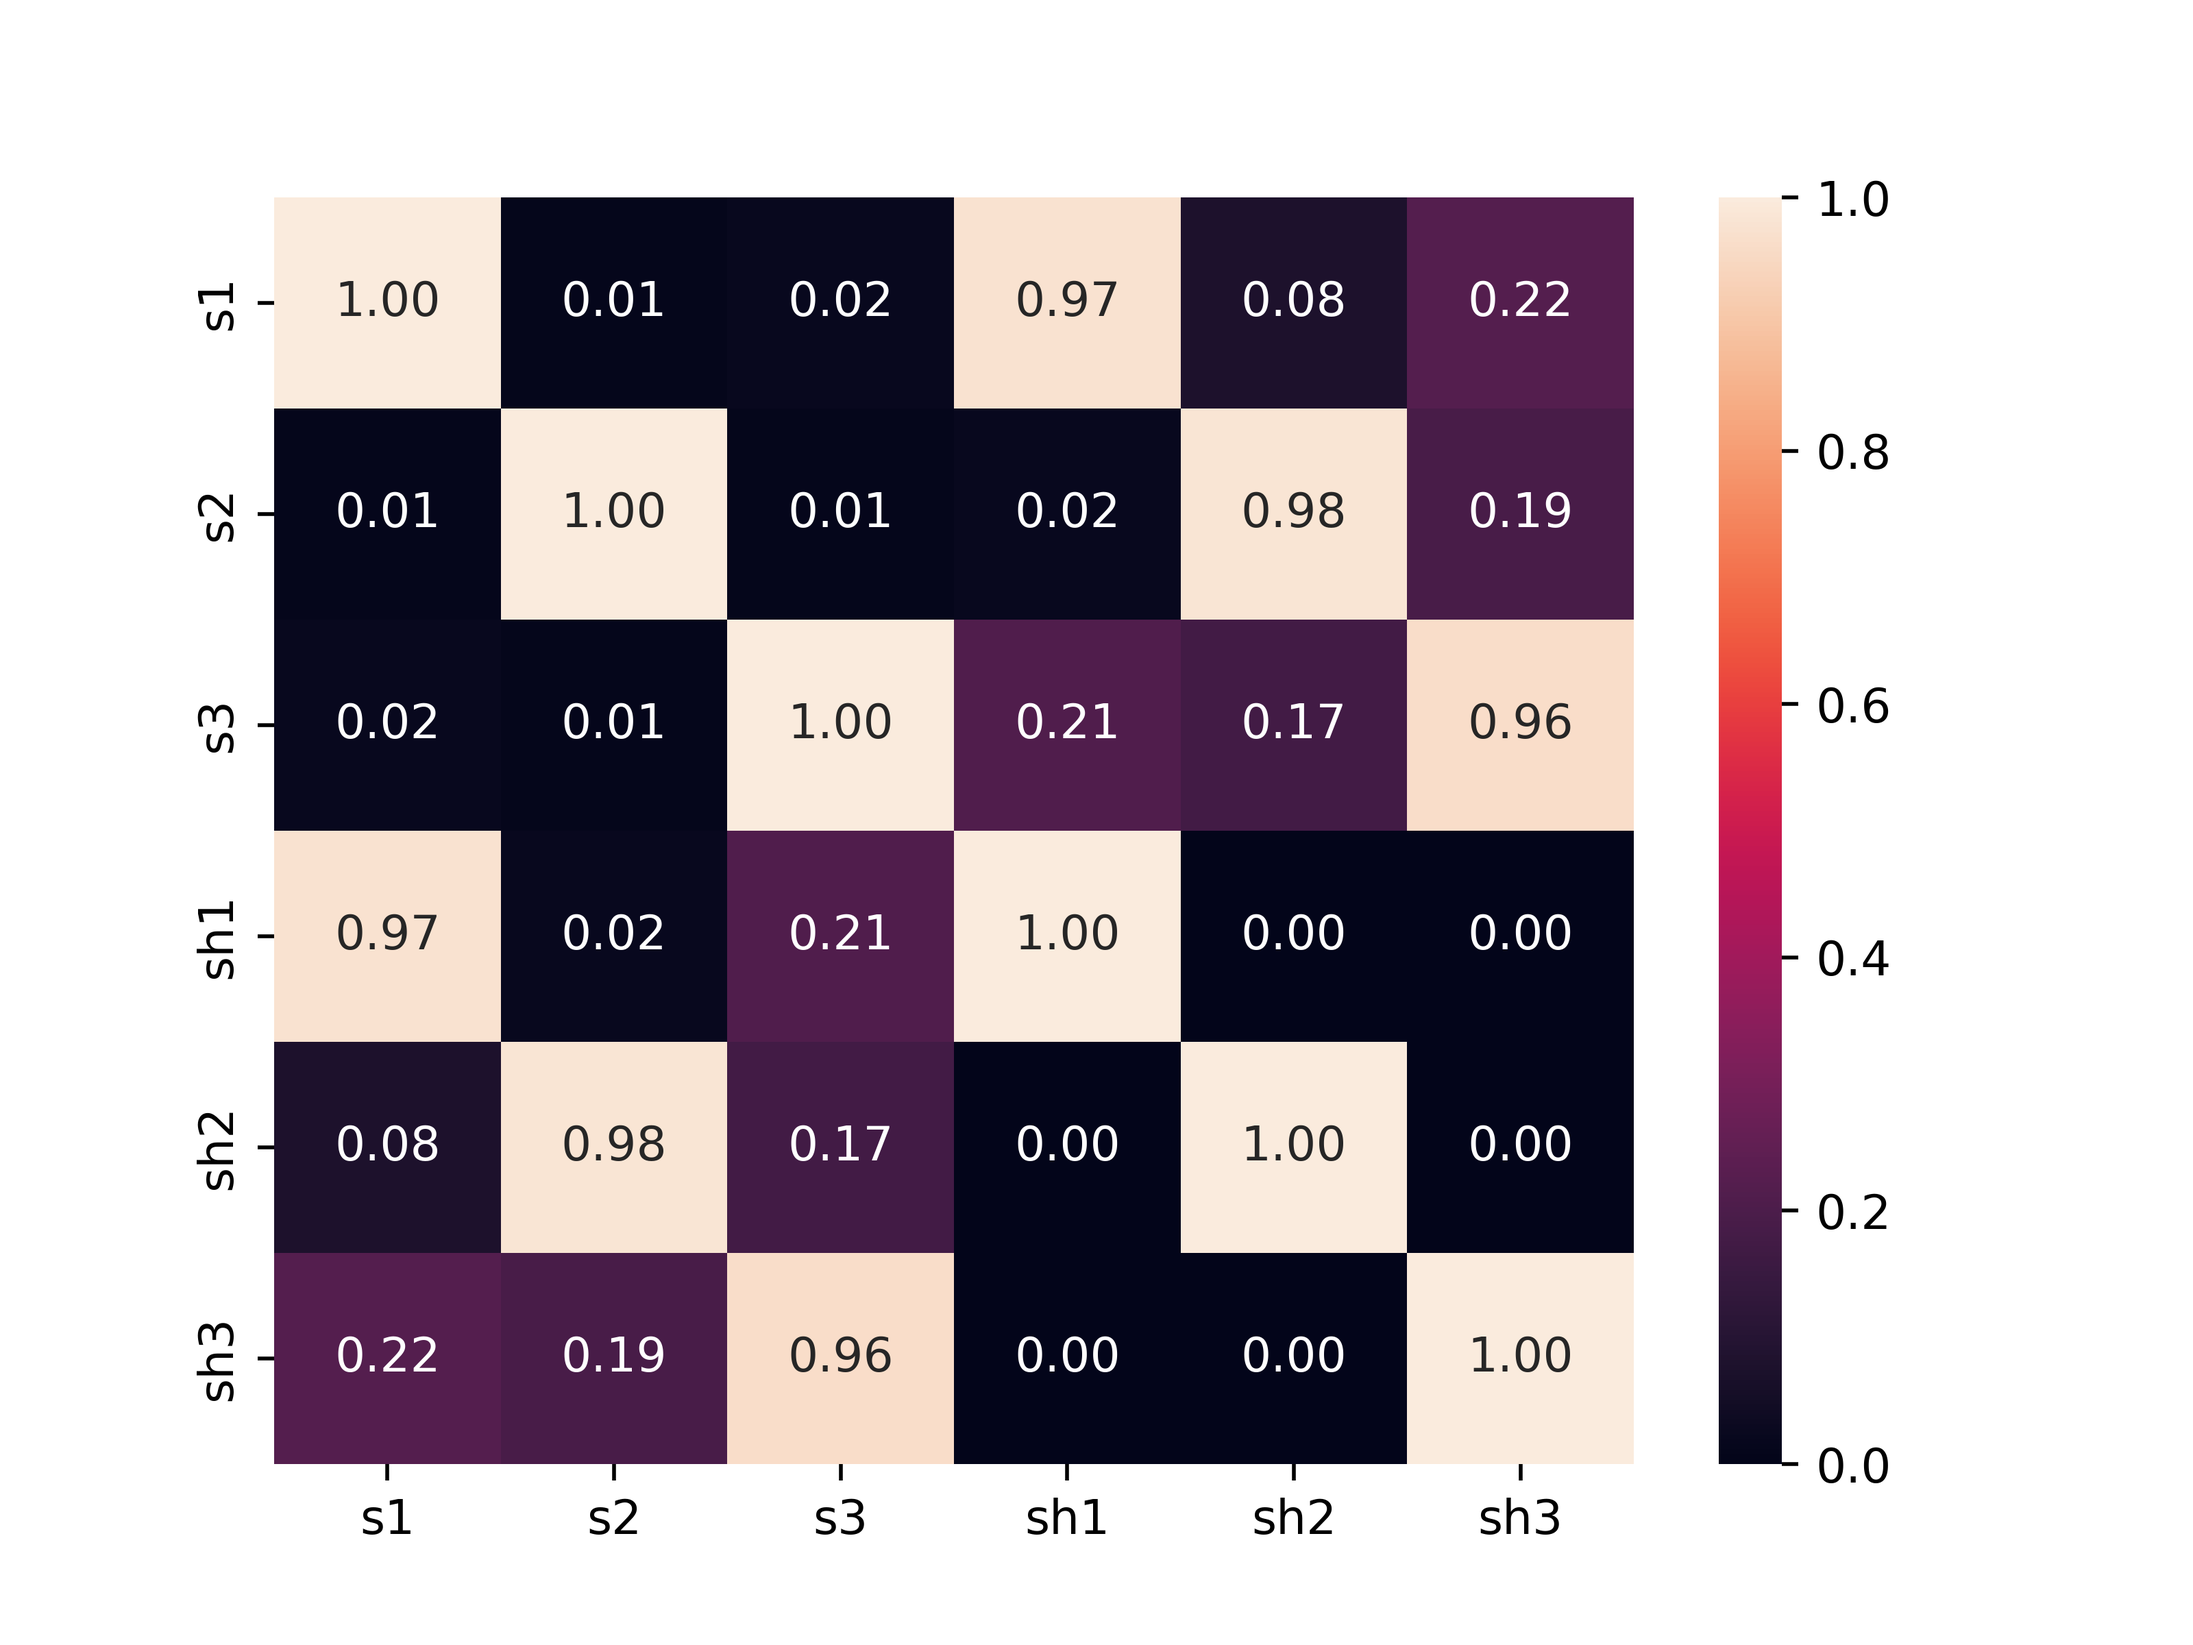
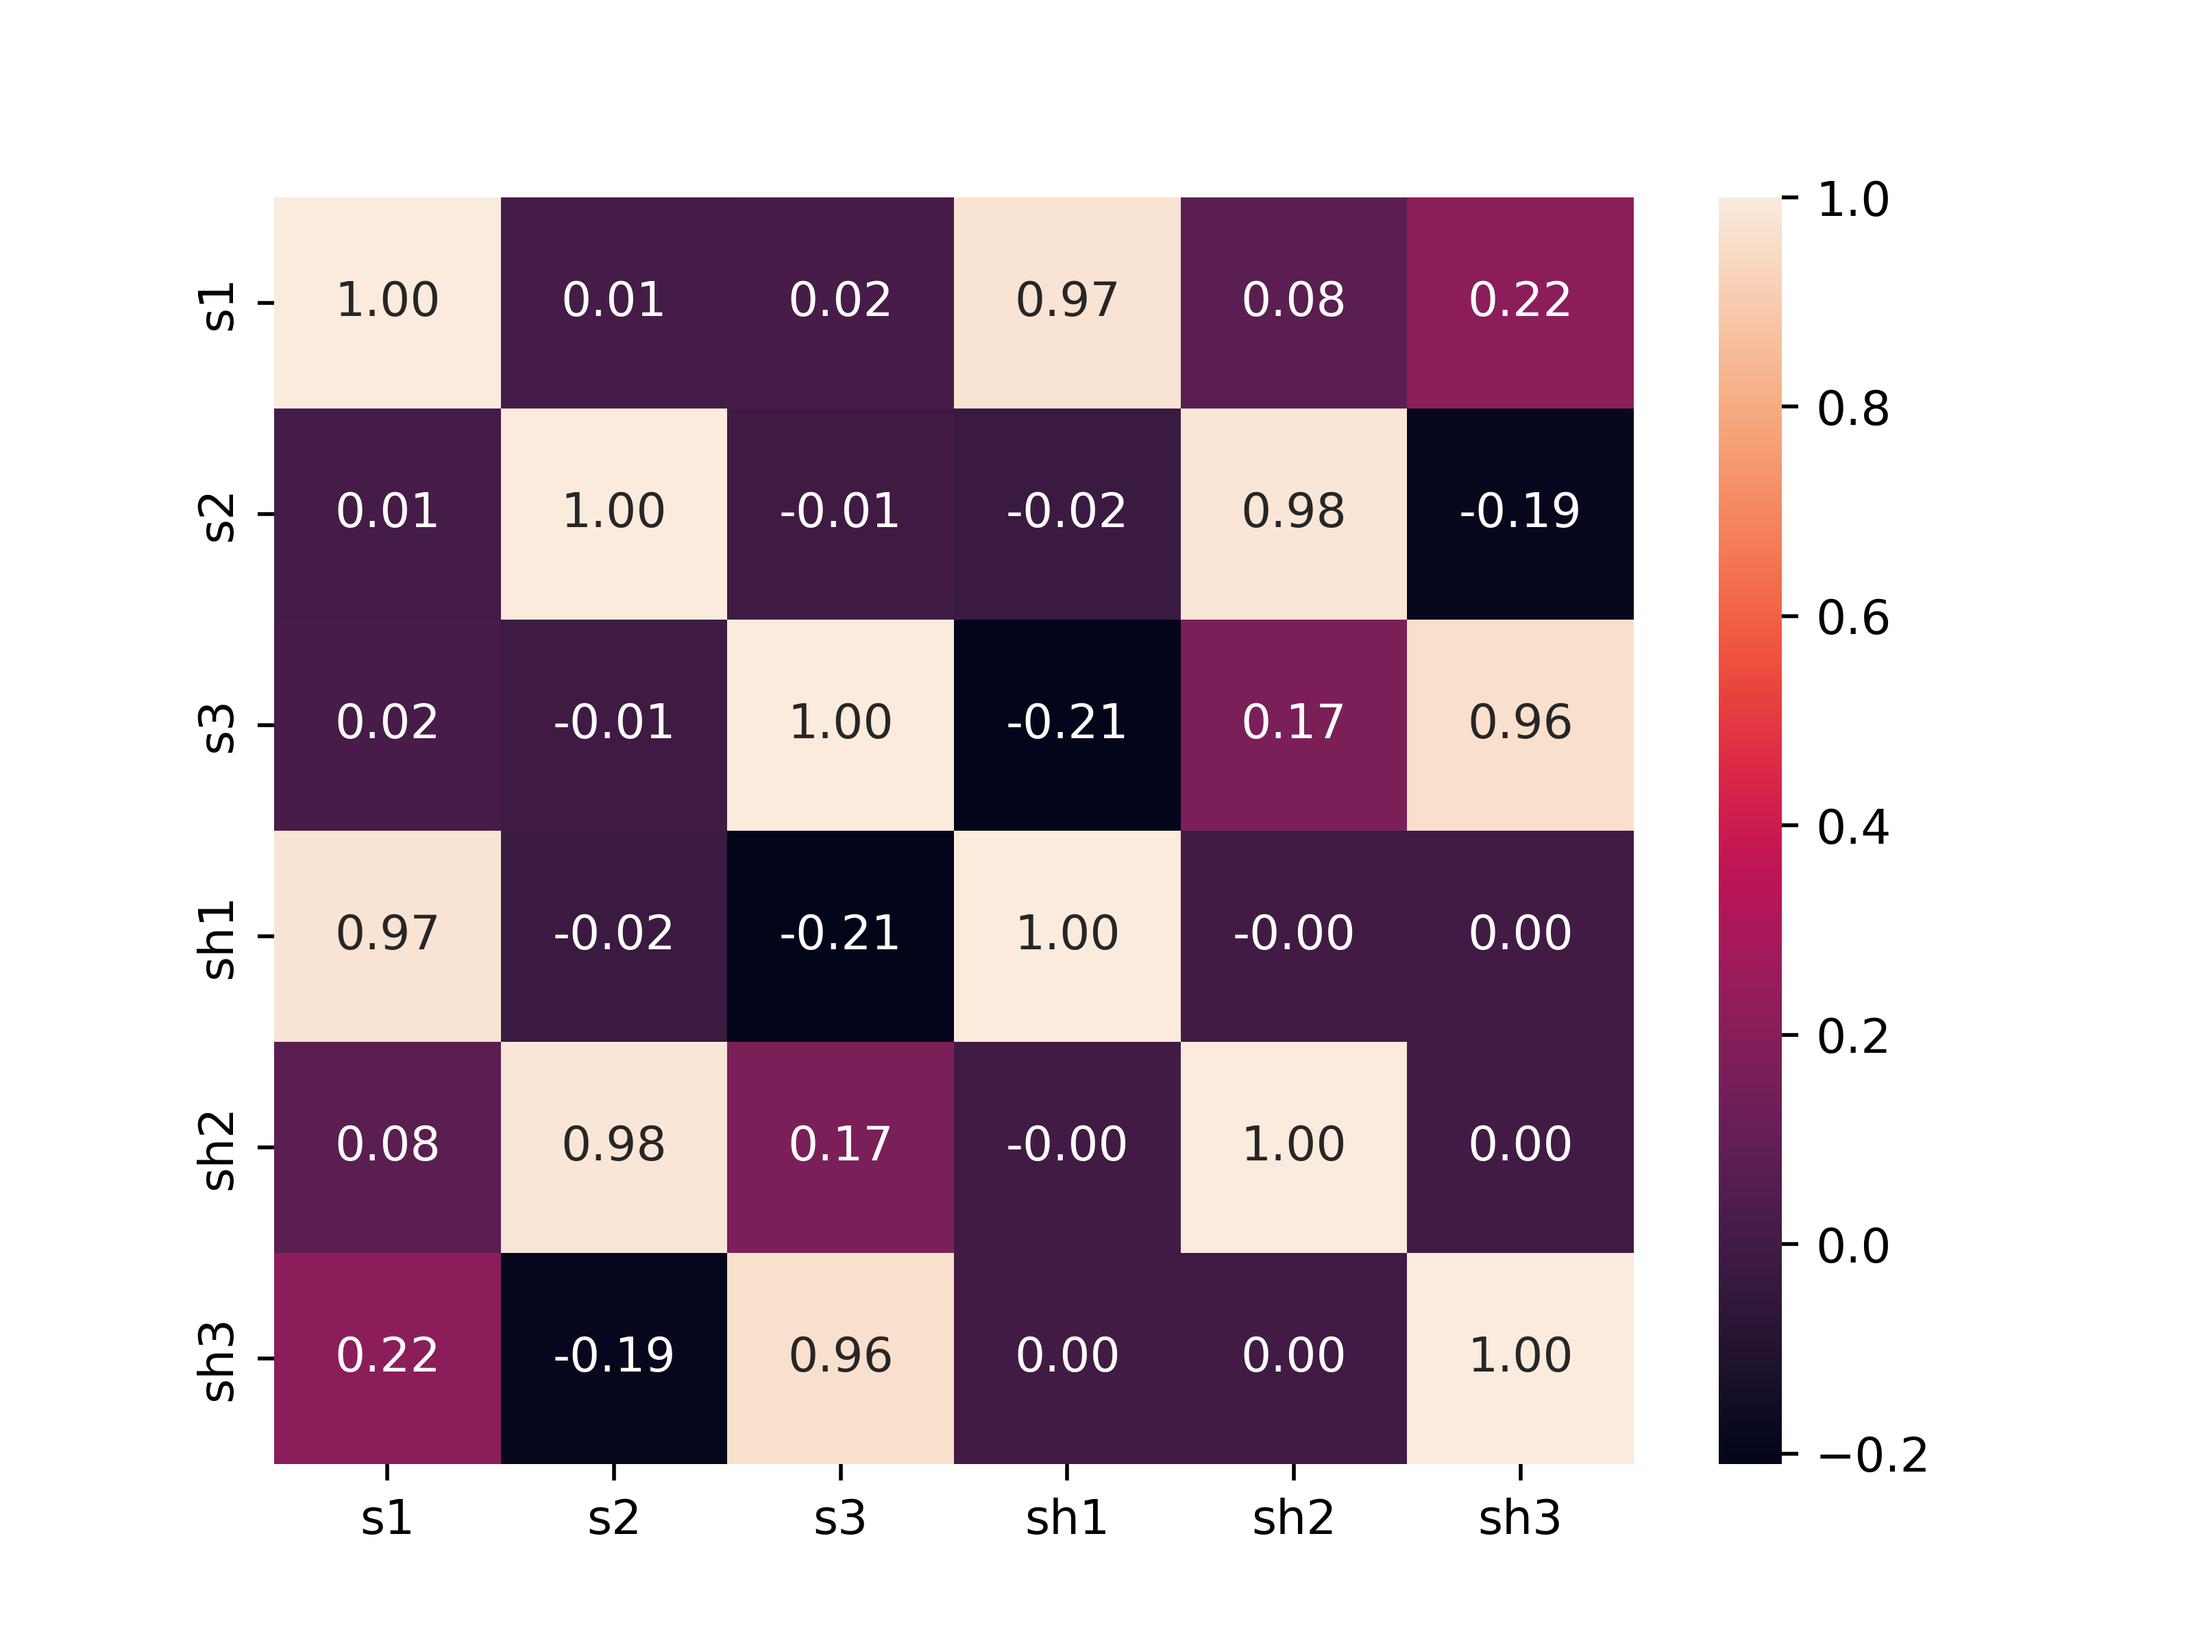
add sign ambiguity

diff --git a/final.py b/final.py
@@ -59,15 +59,20 @@ def reorder_separated_signals(S, Sh):
     correlation_matrix = np.abs(spearmanr(S.T, Sh.T)[0])
     correlation_matrix = correlation_matrix[:S.shape[0], S.shape[0]:]
     separated_order = np.argmax(correlation_matrix, axis=1)
-    return Sh[separated_order]
+    Sh_ordered = Sh[separated_order]
+    # Fix sign ambiguity
+    for i in range(S.shape[0]):
+        if np.corrcoef(S[i], Sh_ordered[i])[0, 1] < 0:  # if correlation is negative
+            Sh_ordered[i] = -Sh_ordered[i]  # flip sign
+    return Sh_ordered
 
 # Calculate Seperated signals from observed-whitened signals
 Sh_initial = ICA(Xh)
 Sh = reorder_separated_signals(S, Sh_initial)
 
 # correlation matrix between source signals and seperated signals
-plt.figure()  # Create a new figure
-corr_matrix = np.abs(np.corrcoef(np.vstack((S, Sh))))  # take absolute value of correlations
+plt.figure()
+corr_matrix = np.corrcoef(np.vstack((S, Sh)))  # take absolute value of correlations
 labels_sources = ['s1', 's2', 's3']
 labels_seperated = ['sh1', 'sh2', 'sh3']
 sns.heatmap(corr_matrix, annot=True, fmt=".2f", xticklabels=labels_sources+labels_seperated, yticklabels=labels_sources+labels_seperated)
@@ -75,15 +80,15 @@ plt.savefig("final_abs_corr_matrix.png",dpi=500)
 # plt.show()
 
 # Correlation matrix between source signals and observed signals
-plt.figure()  # Create a new figure
-corr_matrix_sources_observed = np.abs(np.corrcoef(np.vstack((S, X))))
+plt.figure()
+corr_matrix_sources_observed = np.corrcoef(np.vstack((S, X)))
 labels_observed = ['x1', 'x2', 'x3']
 sns.heatmap(corr_matrix_sources_observed, annot=True, fmt=".2f", xticklabels=labels_sources+labels_observed, yticklabels=labels_sources+labels_observed)
 plt.savefig("abs_corr_matrix_sources_observed.png",dpi=500)
 # plt.show()
 
 # Show original and separated signals spectrum
-plt.figure()  # Create a new figure
+plt.figure()
 time = np.arange(S.shape[1]) / fs
 fig, axs = plt.subplots(2, 3, figsize=(20, 10))
 
@@ -101,18 +106,14 @@ plt.savefig("final_order_diagram.png",dpi=500)
 
 # calculate evaluation metrics
 def calculate_evaluation_metrics(orig, est):
-    # mean squared error
     mse = mean_squared_error(orig, est)
-    # mutual information
-    mi = mutual_info_score(orig.astype(int), est.astype(int))
-    #other metrics
     sdr, sir, sar, _ = bss_eval_sources(orig, est)
-    return mse, mi, sdr, sir, sar
+    return mse, sdr, sir, sar
 
 # Compute the metrics for the corresponding pairs of source and separated signals
 for i in range(3):
-    mse, mi, sdr, sir, sar = calculate_evaluation_metrics(S[i], Sh[i])
-    print(f'For source signal s{i+1} and separated signal sh{i+1}, MSE: {mse:.2f}, MI: {mi:.2f}, SDR: {sdr[0]:.2f}, SIR: {sir[0]:.2f}, SAR: {sar[0]:.2f}')
+    mse, sdr, sir, sar = calculate_evaluation_metrics(S[i], Sh[i])
+    print(f'For source signal s{i+1} and separated signal sh{i+1}, MSE: {mse:.2f}, SDR: {sdr[0]:.2f}, SIR: {sir[0]:.2f}, SAR: {sar[0]:.2f}')
 
 # Save the separated signals to wav files
 Sh_rescaled = np.int16(Sh/np.max(np.abs(Sh)) * 32767)  # rescale the separated signals
